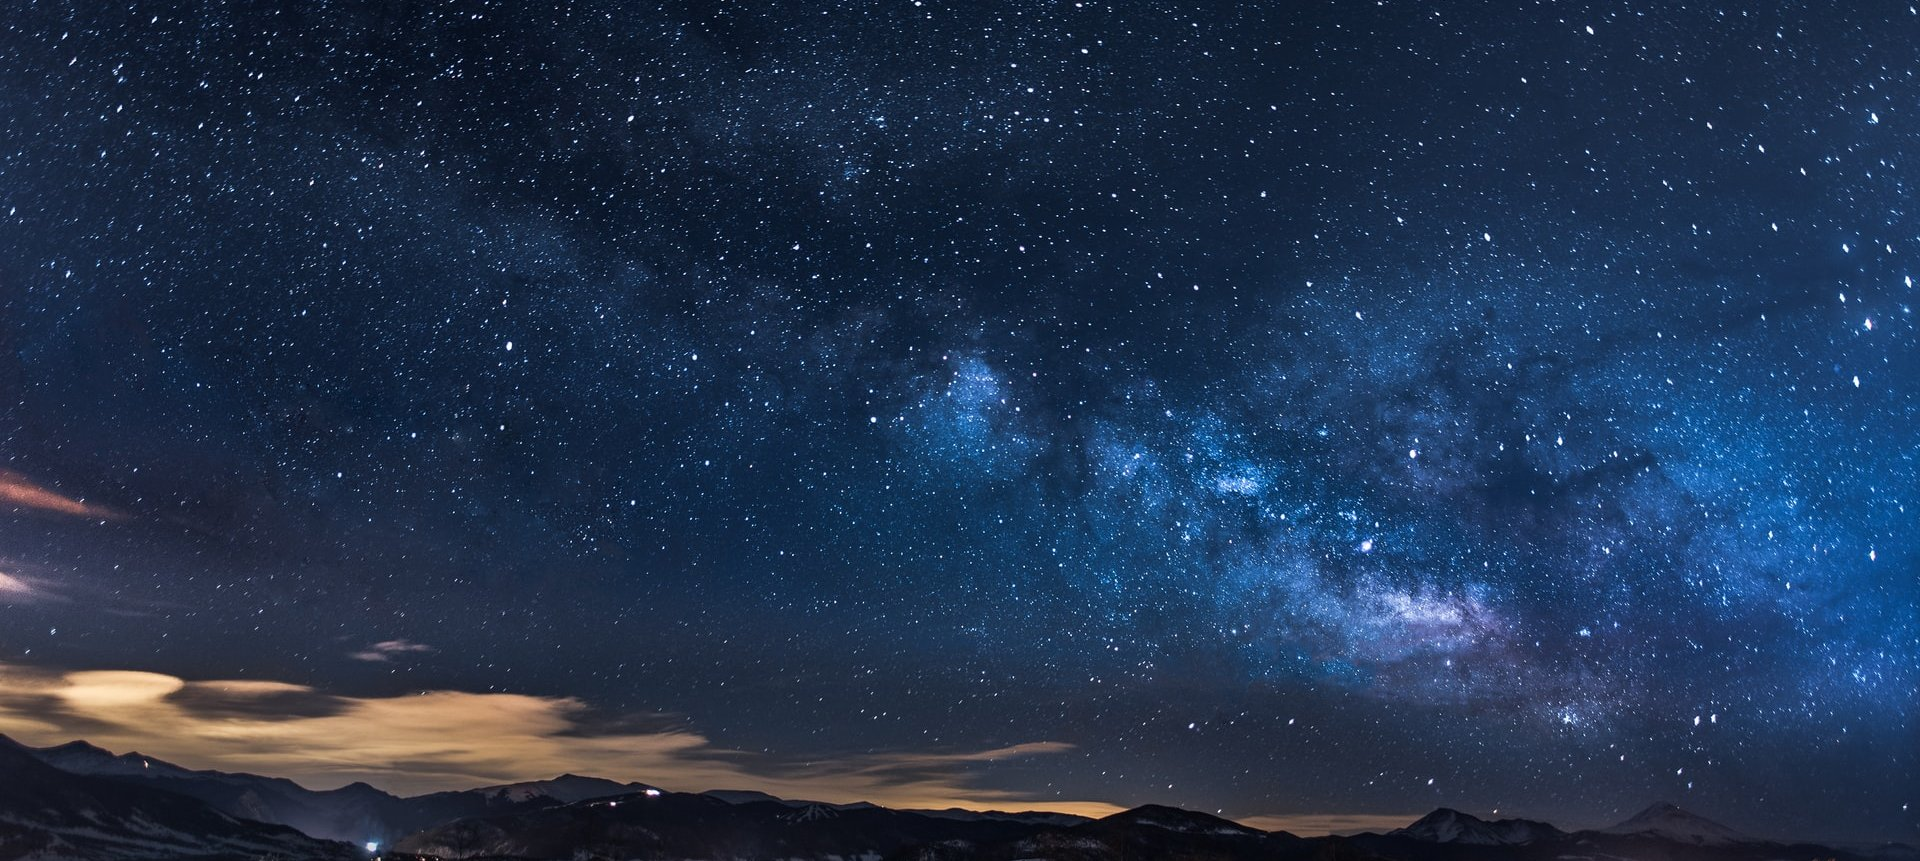
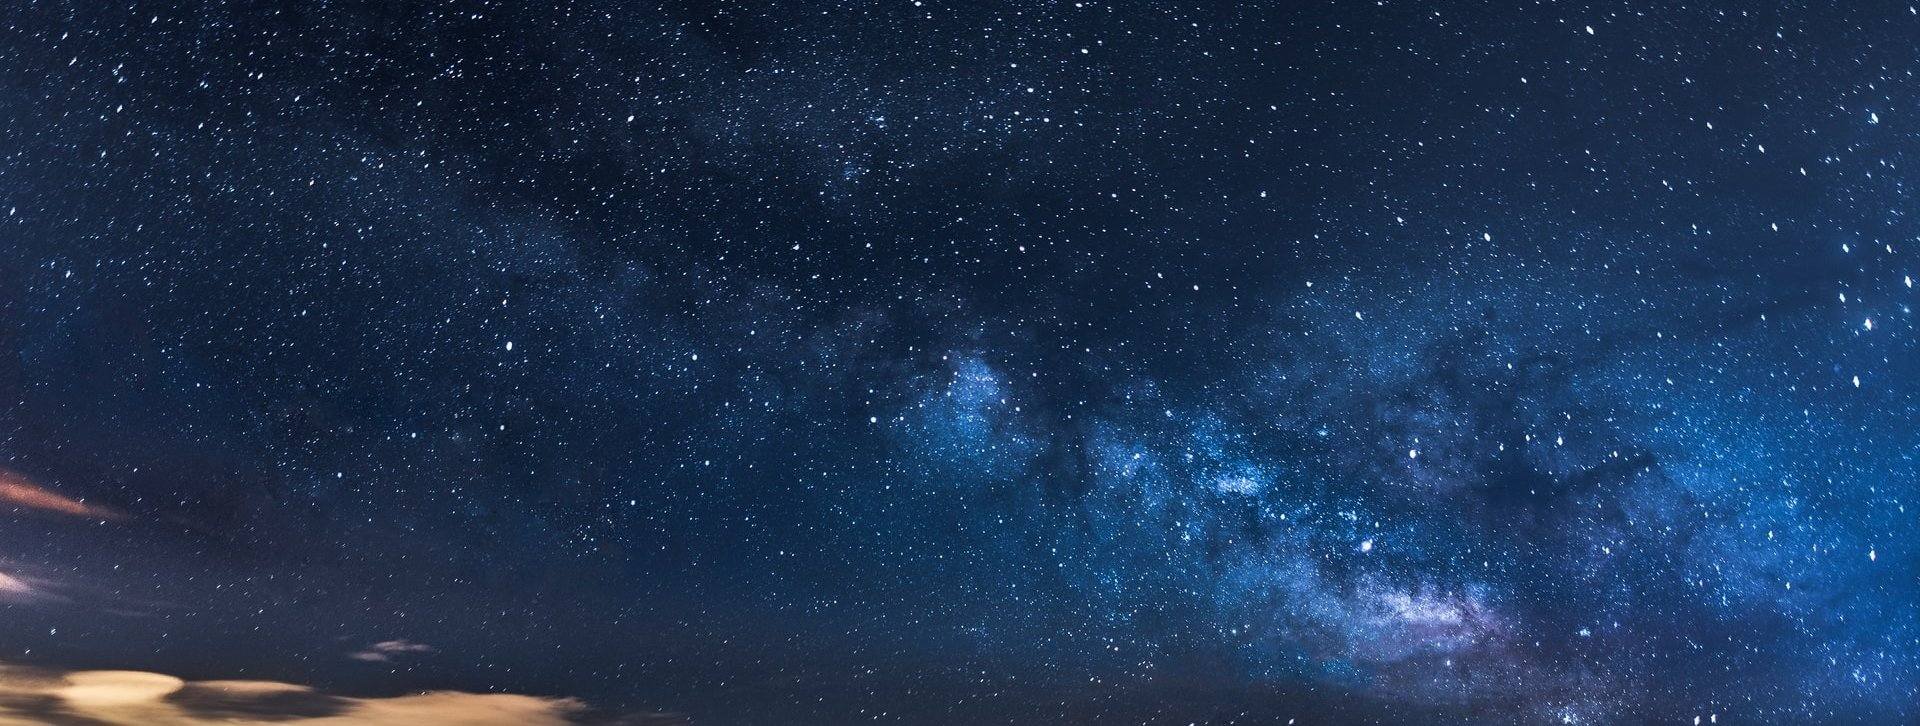
Home page 3 links

diff --git a/src/components/background.js b/src/components/background.js
@@ -10,21 +10,21 @@ const BackgroundSection = ({ className, image, url, title }) => (
       query {
         b1: file(relativePath: { eq: "b1.jpg" }) {
           childImageSharp {
-            fluid(quality: 100, maxWidth: 1440) {
+            fluid(quality: 100, maxWidth: 1440, maxHeight: 500) {
               ...GatsbyImageSharpFluid_withWebp
             }
           }
         }
         b2: file(relativePath: { eq: "b2.jpg" }) {
           childImageSharp {
-            fluid(quality: 100, maxWidth: 1440) {
+            fluid(quality: 100, maxWidth: 1440, maxHeight: 500) {
               ...GatsbyImageSharpFluid_withWebp
             }
           }
         }
         b3: file(relativePath: { eq: "b3.jpg" }) {
           childImageSharp {
-            fluid(quality: 100, maxWidth: 1440) {
+            fluid(quality: 100, maxWidth: 1440, maxHeight: 500) {
               ...GatsbyImageSharpFluid_withWebp
             }
           }
@@ -60,7 +60,7 @@ const BackgroundSection = ({ className, image, url, title }) => (
 
 const StyledBackgroundSection = styled(BackgroundSection)`
   position: relative;
-  height: 47vh;
+  height: 32vh;
   width: 100%;
   background-position: center center;
   background-size: cover;
@@ -75,7 +75,7 @@ const StyledBackgroundSection = styled(BackgroundSection)`
       color: #fff;
       opacity: 1;
       padding-top: 20px;
-      height: 45vh;
+      height: 32vh;
       
       /* transition effect. not necessary */
       transition: all .3s linear 0s;

diff --git a/src/styles/styles.js b/src/styles/styles.js
@@ -68,7 +68,7 @@ export const PostCard = styled.div`
     right: 0;
     color: white;
     padding: 5px;
-    transition: all 1.5s linear 0s;
+    transition: all 1s linear 0s;
   }
 
   .info h2,
